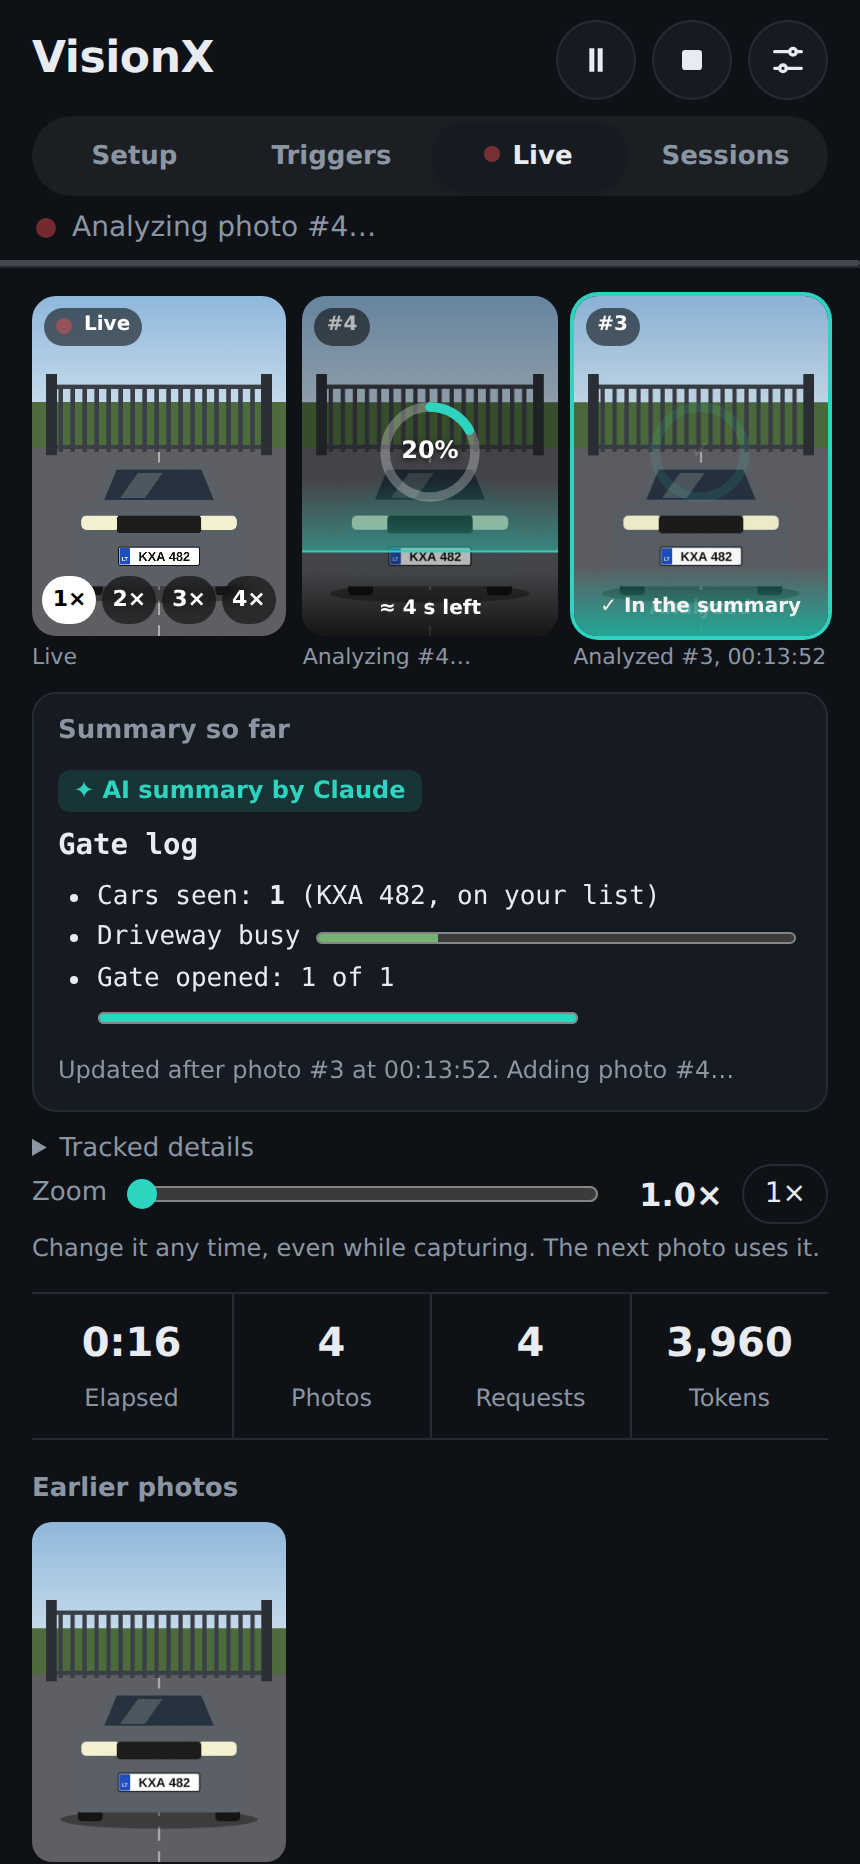
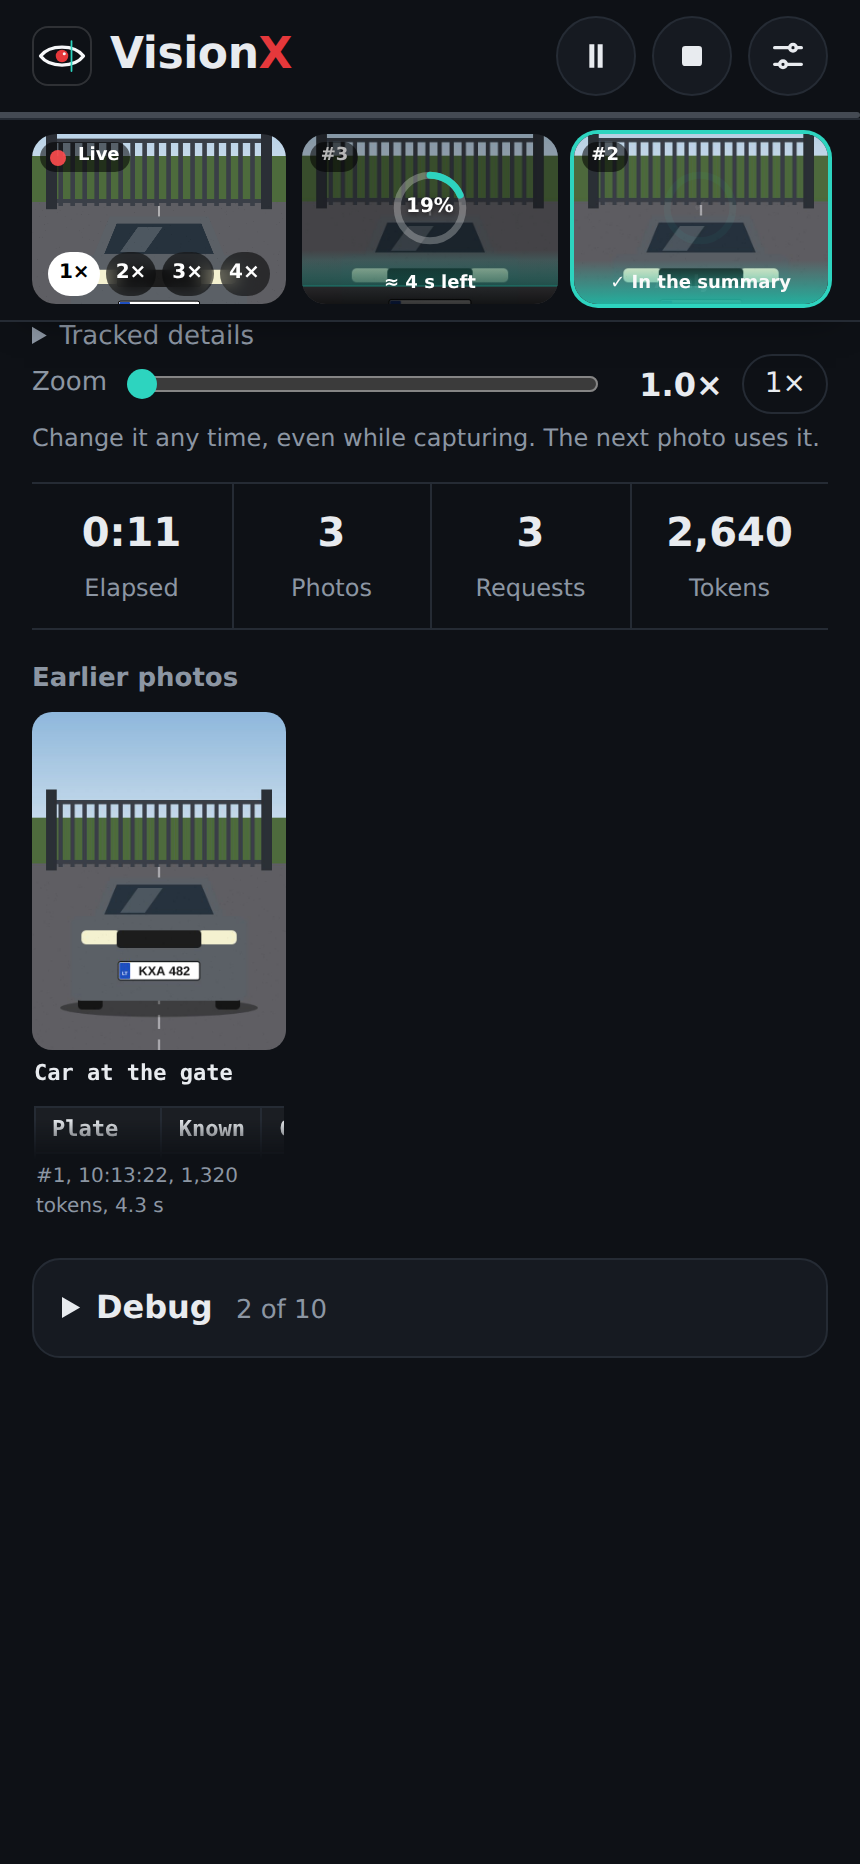
Release 1.18.0: hide tabs during a session, sticky photo row that halves on scroll
- Tabs and status line hidden while a session runs or is paused; back on stop
- Live, Analyzing and Analyzed photos pinned under the header
- Scrolling past the row shrinks it to half height (captions hidden, shadow);
  a sentinel with 36 px hysteresis prevents flicker; back to full at the top

diff --git a/VisionX.js b/VisionX.js
@@ -30,7 +30,7 @@ const STORE_FILE = "vision-session.json"; // presets + settings, in Scriptable's
 // ───────── Version and in-app updates ─────────
 // This build's version. When releasing, bump it and add a matching entry to releases.json.
 // Keep these two lines exactly in this form (single quotes): the updater reads them from downloads.
-const VERSION = '1.17.1';
+const VERSION = '1.18.0';
 const APP_ID = 'visionx';   // unique per app, never changes
 const REPO_RAW = 'https://raw.githubusercontent.com/gadominas/VisionX/main/';
 const SCRIPT_FILE = 'VisionX.js';   // the script's file name in the repository
@@ -1260,6 +1260,26 @@ body:not(.d-tiny) .older .text.md{max-height:4.6em;overflow:hidden;-webkit-mask-
   .splash *{animation:none!important;opacity:1!important;transform:none!important;stroke-dashoffset:0!important}
   .splash{animation:spOut .3s ease 1.6s forwards!important}
 }
+/* While a session runs: no tabs or status line; the photo row sticks under the header and halves on scroll */
+body.sess .hdr .tabs,body.sess .hdr .hstat{display:none}
+body.sess .hdr .brand{padding-bottom:8px}
+body.sess .hdr.stuck{box-shadow:none}
+body.sess #liveOn{min-height:calc(100vh + 200px)}
+#liveSentinel{height:0}
+.liveGrid{position:sticky;top:var(--hdrH,0px);z-index:14;background:var(--paper);margin:0 -16px;padding:8px 16px 8px;transition:box-shadow .2s}
+.liveGrid.sized .livePane .liveWrap,.liveGrid.sized .liveApple,.liveGrid.sized .nowPhoto,.liveGrid.sized .lastPhoto{aspect-ratio:auto;height:var(--tileH);transition:height .25s ease}
+.liveGrid.sized.mini .livePane .liveWrap,.liveGrid.sized.mini .liveApple,.liveGrid.sized.mini .nowPhoto,.liveGrid.sized.mini .lastPhoto{height:calc(var(--tileH) * .5)}
+.liveGrid.mini{box-shadow:0 8px 18px -12px rgba(0,0,0,.55);border-bottom:1px solid var(--rule)}
+.liveGrid.mini figcaption{display:none}
+.liveGrid.mini .anlBox{width:38px;height:38px;top:44%}
+.liveGrid.mini .anlPct{font-size:10px}
+.liveGrid.mini .anlTxt,.liveGrid.mini .inSum{padding:6px 2px 3px;font-size:9px}
+.liveGrid.mini .nowWait{font-size:10px;padding:4px}
+.liveGrid.mini .nowWait b{font-size:16px;margin-bottom:2px}
+.liveGrid.mini .zoomChips{bottom:4px}
+.liveGrid.mini .zoomChips button{height:22px;min-width:24px;font-size:10px}
+.liveGrid.mini .liveTag,.liveGrid.mini .nowBadge{top:4px;left:4px;font-size:9px;padding:1px 5px}
+@media (prefers-reduced-motion:reduce){.liveGrid.sized .livePane .liveWrap,.liveGrid.sized .liveApple,.liveGrid.sized .nowPhoto,.liveGrid.sized .lastPhoto{transition:none}}
 /* Layers: modal 10, editor 20, update 30, Settings 50, AI settings 60 (it opens from Settings), toasts 70 */
 #cfgsheet{position:fixed;inset:0;z-index:50;background:var(--paper);color:var(--ink);transform:translateY(102%);visibility:hidden;transition:transform .28s ease,visibility 0s linear .28s;overflow-y:auto;-webkit-overflow-scrolling:touch;overscroll-behavior:contain;text-align:left}
 #cfgsheet.open{transform:none;visibility:visible;transition:transform .28s ease}
@@ -1514,6 +1534,7 @@ body:not(.d-tiny) .older .text.md{max-height:4.6em;overflow:hidden;-webkit-mask-
     <button type="button" class="btn" id="liveStart">Start session</button>
   </div>
   <div id="liveOn" class="hidden">
+  <div id="liveSentinel" aria-hidden="true"></div>
   <div class="liveGrid">
     <figure class="livePane">
       <div class="liveWrap" id="liveWrap"><video id="live" class="live" playsinline muted autoplay></video><span class="liveTag">Live</span>
@@ -3084,6 +3105,7 @@ const PAGE_JS = String.raw`
     $("hPause").setAttribute("aria-label", paused ? "Resume session" : "Pause session");
     $("hPause").classList.toggle("resume", !!paused);
     $("statusBox").classList.toggle("paused", !!paused);
+    sessChrome();
   }
   function pauseSession() {
     const sess = S;
@@ -3111,6 +3133,34 @@ const PAGE_JS = String.raw`
   function pausedMs(sess) {
     return (sess.stats.paused || 0) + (sess.paused && sess.pausedAt ? Date.now() - sess.pausedAt : 0);
   }
+  // ── while a session runs: tabs and status line hidden; the photo row sticks and halves on scroll ──
+  function sessChrome() {
+    document.body.classList.toggle("sess", !!S.running);
+    requestAnimationFrame(sizeLiveRow);
+  }
+  function sizeLiveRow() {
+    const hdr = $("hdr"), g = document.querySelector(".liveGrid");
+    if (!hdr || !g) return;
+    document.documentElement.style.setProperty("--hdrH", Math.max(0, Math.round(hdr.getBoundingClientRect().height) - 1) + "px");
+    const cs = getComputedStyle(g);
+    const w = g.clientWidth - parseFloat(cs.paddingLeft) - parseFloat(cs.paddingRight);
+    if (w > 0) {
+      const gap = parseFloat(cs.columnGap) || 8;
+      g.style.setProperty("--tileH", Math.round(((w - 2 * gap) / 3) * 4 / 3) + "px");
+      g.classList.add("sized");
+    }
+    miniCheck();
+  }
+  // Halves once the row has stuck and the page moved on 40 px; grows back near where it stuck.
+  function miniCheck() {
+    const g = document.querySelector(".liveGrid"), sen = $("liveSentinel");
+    if (!g || !sen) return;
+    if (!S.running || $("liveOn").classList.contains("hidden")) { g.classList.remove("mini"); return; }
+    const hdrH = $("hdr").getBoundingClientRect().height;
+    const top = sen.getBoundingClientRect().top;
+    if (!g.classList.contains("mini") && top < hdrH - 40) g.classList.add("mini");
+    else if (g.classList.contains("mini") && top > hdrH - 4) g.classList.remove("mini");
+  }
   function wireControls() {
     $("hStart").innerHTML = ICON_PLAY;
     $("hStop").innerHTML = ICON_STOP;
@@ -3120,6 +3170,8 @@ const PAGE_JS = String.raw`
     const hdr = $("hdr");
     const stuck = () => hdr.classList.toggle("stuck", window.scrollY > 4);
     window.addEventListener("scroll", stuck, { passive: true });
+    window.addEventListener("scroll", miniCheck, { passive: true });
+    window.addEventListener("resize", () => requestAnimationFrame(sizeLiveRow));
     stuck();
     updateControls();
   }
@@ -3357,6 +3409,7 @@ const PAGE_JS = String.raw`
       tab.tabIndex = v === name ? 0 : -1;
     });
     window.scrollTo(0, 0);
+    if (name === "live") requestAnimationFrame(sizeLiveRow);
   }
   function renderTabs() {
     $("tab-live").innerHTML = (S.running ? '<span class="recdot' + (S.paused ? " held" : "") + '" aria-hidden="true"></span>' : "") + "Live";

diff --git a/README.md b/README.md
@@ -39,7 +39,7 @@
 - **Your instructions.** It does whatever you describe, such as "Count the different people and summarize them" or "Read the license plate of any car at the gate". Save instructions you like as presets.
 - **Full-screen editor with AI refine.** Expand the instructions into a full-screen editor. **Refine with AI** rewrites them so the model knows exactly what to look for, count and ignore. Pick Clearer, More specific or Shorter, or say what should change, then use the suggestion or keep your own.
 - **Sticky header.** Start, Pause/Resume and Stop, Settings, the tabs (Setup, Triggers, Live, Sessions) and a status line with the countdown to the next photo or what's being analyzed stay at the top on every tab.
-- **Live tab.** Starting a session opens Live. One row of three small photos: the live camera (with 1×, 2×, 3× and 4× zoom buttons on it), the photo being analyzed (progress ring and time left, or a countdown to the next photo), and the last analyzed photo, outlined and marked "✓ In the summary". Under it the summary runs full width, then a compact trigger list (status badge, run count and time per trigger), stats, and earlier photos as small thumbnails.
+- **Live tab.** Starting a session opens Live and hides the tabs and status line until the session stops, leaving only the logo and the Pause, Stop and Settings buttons. One row of three small photos sits under them: the live camera (with 1×, 2×, 3× and 4× zoom buttons on it), the photo being analyzed (progress ring and time left, or a countdown to the next photo), and the last analyzed photo, outlined and marked "✓ In the summary". The row stays pinned as you scroll and shrinks to half its height, so the photos stay in view while you read the summary, triggers, stats and earlier photos below.
 - **Markdown summaries.** Summaries are shown in a fixed-width font and render Markdown from the model: headings, lists, tables, code blocks (for Unicode bar charts) and gauges (`<meter>`, `<progress>`). Ask for it in your instructions, for example "show a table of counts and a bar per category".
 - **Saved sessions.** Ending a session saves it on this iPhone with its summary, stats, trigger results, last photos and debug log, and opens its report in the Sessions tab. The last 3 are kept by default, up to 10 (Settings › Capture).
 - **Two summary modes.** Each photo can build on one running summary for the whole session, or be judged fresh on its own (see [Modes](#modes)).

diff --git a/CHANGELOG.md b/CHANGELOG.md
@@ -2,6 +2,18 @@
 
 All notable changes to VisionX. Generated from `releases.json`; edit that file, not this one.
 
+## 1.18.0 (2026-10-29): More room while you capture
+
+- 🧹 **Cleaner header**: Tabs and the status line hide while a session runs and return when it stops.
+- 📌 **Photos stay in view**: The live, analyzing and analyzed photos stay pinned at the top as you scroll.
+- ↕ **Half size on scroll**: Scroll down and the photo row shrinks to half its height; scroll up and it grows back.
+
+**Changes**
+
+- While a session runs (or is paused), the tabs and status line are hidden; they come back when it stops
+- The photo row (Live, Analyzing, Analyzed) sticks under the header
+- Scrolling down shrinks the row to half its height, hides its captions and adds a shadow; scrolling back to the top restores it
+
 ## 1.17.1 (2026-10-29): Launch screen, now shared
 
 - 🎬 **Same launch screen**: The eye still draws itself and the tagline appears; nothing changes for you.
